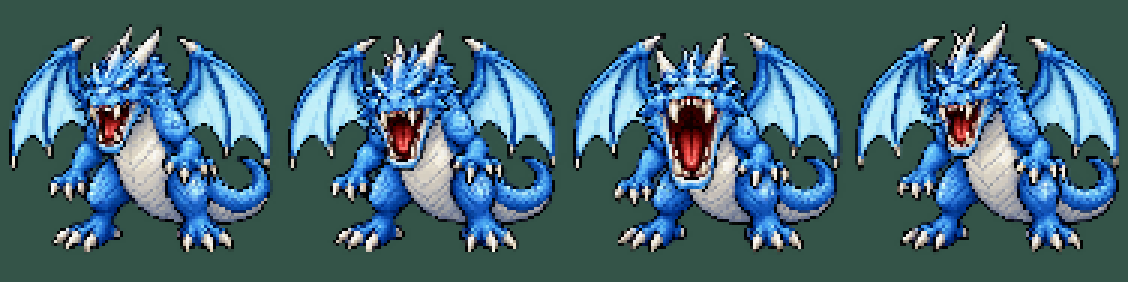
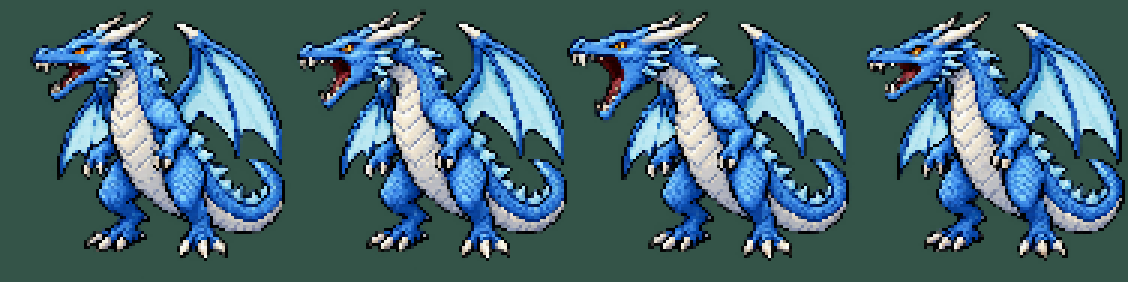
Refine dragon attack face to original likeness and left profile

diff --git a/design/enemies/dragon_frost/attack/PROMPT.md b/design/enemies/dragon_frost/attack/PROMPT.md
@@ -1,1 +1,1 @@
-Built-in image_gen edit. Reference: ../move/dragon_frost_1.png. Four-frame open-mouth loop. NO FIRE or particles. Face thrust toward viewer, neck extended, jaws open, ivory teeth visible. Frame1 medium gape, frame2 wider, frame3 maximum, frame4 return. Preserve blue pixel-art dragon, feet anchored, transparent background. Export: 94x94 PNG; 0.14s per frame.
+Built-in image_gen edit. Reference: ../move/dragon_frost_1.png. Four-frame open-mouth loop. NO FIRE or particles. Original long narrow snout and swept-back horns preserved. Face in LEFT SIDE PROFILE, neck reaching left, not toward camera, jaws open, ivory teeth visible. Frame1 medium gape, frame2 wider, frame3 maximum, frame4 return. Preserve blue pixel-art dragon, feet anchored, transparent background. Export: 94x94 PNG; 0.14s per frame.
